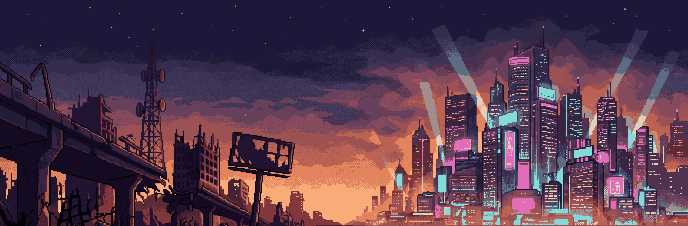
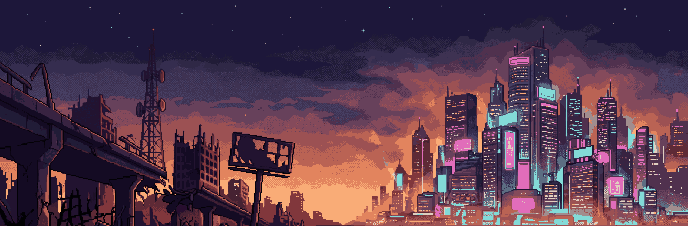
Startseite: Suchscheinwerfer aus der Skyline animiert, hinter den Hochhäusern (#117)
Claude-Session: https://claude.ai/code/session_01DEYRZwNFjFGt4uh4nVWp1C

diff --git a/game/splash/splash.js b/game/splash/splash.js
@@ -263,6 +263,33 @@ export async function startSplash(canvas) {
       const ox = -look.x * par * W * depth + shiftH, oy = -look.y * par * 0.4 * H * depth;
       ctx.drawImage(img, Math.round((W - bw * sc) / 2 + ox), Math.round(horizon - bh * sc + oy + par * 0.4 * H * depth), Math.round(bw * sc), Math.round(bh * sc));
     });
+    // #117 (Daniel: „die Lichtkegel im Hauptmenü auch animieren“): searchlights from the skyline (Startseite › Suchscheinwerfer, in
+    // pixels of the picture), sweeping the sky around their angle, now and then darting somewhere else; they move with the picture
+    if (layers[0] && S.beams?.length) {
+      const ox = shiftH, x0 = (W - bw * sc) / 2 + ox, y0 = horizon - bh * sc;
+      ctx.save();
+      if (S.skyline?.length > 2) {   // the beams stay behind the buildings: only the sky above the skyline (Startseite › Skyline)
+        ctx.beginPath(); ctx.moveTo(x0, y0 - H);
+        for (const q of S.skyline) if (q.at) ctx.lineTo(x0 + q.at[0] * sc, y0 + q.at[1] * sc);
+        ctx.lineTo(x0 + bw * sc, y0 - H); ctx.closePath(); ctx.clip();
+      }
+      ctx.globalCompositeOperation = 'lighter';
+      S.beams.forEach((b, i) => {
+        if (!b.at) return;
+        const bx = x0 + b.at[0] * sc, by = y0 + b.at[1] * sc, ph = i * 2.3 + 0.4, sw = (b.swing ?? 22) * Math.PI / 180;
+        const step = Math.floor(t / 2.8 + ph), k = Math.min(1, (t / 2.8 + ph - step) * 6), sm = k * k * (3 - 2 * k), dart = n => (Math.sin(n * 91.7 + i * 13.1) * 43758.5453 % 1) * 0.8;
+        const ang = (-90 + (b.angle ?? 0)) * Math.PI / 180 + sw * Math.sin(t * (0.35 + i * 0.07) + ph) + (dart(step - 1) + (dart(step) - dart(step - 1)) * sm) * sw * 0.6;
+        const len = (b.length ?? 140) * sc, a = (b.alpha ?? 30) / 100;
+        for (const [spread, al] of [[0.07, 0.45], [0.035, 0.7], [0.014, 1]]) {
+          const g = ctx.createLinearGradient(bx, by, bx + Math.cos(ang) * len, by + Math.sin(ang) * len);
+          g.addColorStop(0, `rgba(226,222,255,${a * al})`); g.addColorStop(0.6, `rgba(210,206,250,${a * al * 0.45})`); g.addColorStop(1, 'rgba(200,200,255,0)');
+          ctx.fillStyle = g; ctx.beginPath(); ctx.moveTo(bx, by);
+          ctx.lineTo(bx + Math.cos(ang - spread) * len, by + Math.sin(ang - spread) * len); ctx.lineTo(bx + Math.cos(ang + spread) * len, by + Math.sin(ang + spread) * len);
+          ctx.closePath(); ctx.fill();
+        }
+      });
+      ctx.restore();
+    }
     front.forEach(({ f, img }, i) => {
       const k = sc * (f.scale ?? 100) / 100, w = Math.round(img.width * k), h = Math.round(img.height * k), d = 1 + (i + 1) * 0.6;
       const ox = -look.x * par * W * d + shiftH * (1 + (i + 1) * 0.3), oy = -look.y * par * 0.4 * H * d;

diff --git a/engine/schema.js b/engine/schema.js
@@ -312,7 +312,9 @@ export const AREAS = {
     hint: 'Die Startseite (online unter /): Hintergrund aus Ebenen, Leyla rennt endlos auf uns zu, der Boden fliegt unter ihr durch. Pixel-Art wird scharf skaliert.',
     sections: [
       { title: 'Hintergrund', fields: [refs('background', 'Ebenen', 'assets', { hint: 'Von hinten nach vorn. Alle gleich groß; mit Wetter darf auch die erste transparent sein' }),
-        table('front', 'Ebenen davor', [ref('look', 'Bild', 'assets'), num('scale', 'Maßstab', { unit: '% der Hintergrund-Pixel', min: 10 }), num('bottom', 'Unterkante', { unit: 'Bildpixel unter dem Horizont' }), num('alpha', 'Deckkraft', { unit: '%', min: 0, max: 100 })], { hint: '#115: gemalte Parallax-Ebenen (Welt › Parallax-Sets) vor dem Bild, nahtlos gespiegelt, folgen der Maus stärker' }), ref('weather', 'Wetter', 'weather', { hint: 'Himmel hinter den Ebenen, Regen davor' }),
+        table('front', 'Ebenen davor', [ref('look', 'Bild', 'assets'), num('scale', 'Maßstab', { unit: '% der Hintergrund-Pixel', min: 10 }), num('bottom', 'Unterkante', { unit: 'Bildpixel unter dem Horizont' }), num('alpha', 'Deckkraft', { unit: '%', min: 0, max: 100 })], { hint: '#115: gemalte Parallax-Ebenen (Welt › Parallax-Sets) vor dem Bild, nahtlos gespiegelt, folgen der Maus stärker' }),
+        table('beams', 'Suchscheinwerfer', [point('at', 'Ansatz', { unit: 'Bildpixel' }), num('angle', 'Richtung', { unit: '° von senkrecht' }), num('swing', 'Schwenk', { unit: '°', min: 0 }), num('length', 'Länge', { unit: 'Bildpixel', min: 10 }), num('alpha', 'Helligkeit', { unit: '%', min: 0, max: 100 })], { hint: '#117: Lichtkegel aus der Skyline, schwenken über den Himmel und rucken ab und zu' }),
+        table('skyline', 'Skyline', [point('at', 'Punkt', { unit: 'Bildpixel' })], { hint: '#117: Linienzug über den Dächern von links nach rechts; die Suchscheinwerfer leuchten nur darüber (hinter den Gebäuden)' }), ref('weather', 'Wetter', 'weather', { hint: 'Himmel hinter den Ebenen, Regen davor' }),
         num('horizon', 'Horizont', { unit: '% der Höhe', min: 30, max: 100, hint: 'Hier endet der Hintergrund unten; darunter zeichnet die Startseite den Boden, auf dem Leyla rennt' }),
         num('parallax', 'Tiefe', { unit: '%', min: 0, max: 10, step: 0.5, hint: 'So weit verschieben sich die Ebenen mit Maus bzw. Neigen gegeneinander (vorderste am meisten). 0 = starr' })] },
       { title: 'Leyla', fields: [table('runners', 'Animationen', [ref('look', 'Animation', 'assets'), num('weight', 'Gewicht', { min: 0 }), num('speed', 'Bodentempo ×', { min: 0 })],

diff --git a/docs/features/splash.md b/docs/features/splash.md
@@ -9,3 +9,4 @@ Die Startseite: Szene mit Leyla, Horizont-Dunst, AvA, Highway zur Megacity mit T
 - **Highway zur Megacity** (Daniel, 10.11.2026: „Hintergrund, der perspektivisch besser zu Leylas Laufen passt, Ruinen und auf der Gegenseite eine beleuchtete Cyberpunk-Megacity, spannende Endlos-Textur für den Boden, passend zum Pixelstil von Leyla und Drohne“): Bild `highway` (PixelLab mit Leyla als Stilvorlage, Fluchtpunkt in der Mitte, am Horizont abgeschnitten), Horizont 60 %. **Textur-Boden** (Startseite › Boden › Textur, `drawGround` in `splash.js`, „Mode 7“): jede Bildpixel-Zeile unter dem Horizont ist eine Tiefe, die Draufsicht `highway_ground` liegt „Breite der Textur“ (1,7 m) breit flach auf dem Boden und rollt mit dem Tempo weg, links/rechts wiederholt sich der Rand (16 Spalten Sand), zum Horizont Dunst ab 8 m; Steinchen 0. Ohne Textur wie vorher. Der alte Hintergrund `ruins_relay` bleibt als Asset.
 - **Überraschung** (Ava, 11.11.2026, Daniel: „bau eine visuelle Kleinigkeit in den Homescreen ein“): alle 22–52 s rollt ein **Steppenläufer** (Pixel aus Code, hüpft, dreht sich) hinter Leyla quer über den Highway und wird vom Boden in die Ferne getragen; alle 18–43 s zieht eine **Sternschnuppe** über den Abendhimmel (Klick in den Himmel ruft eine). `splash.surprise()`, `splash.tumble()`, `splash.star()`; geprüft in `splash_test`.
 - Online kommen die Daten live über `/api/files` (wie das Spiel). `index.html?preview` zeigt nur die Szene (Vorschau in der Werkstatt unter „Startseite“ mit „Speichern und neu laden“). `window.splash` für Tests, `node tools/splash_test.mjs [--shots]` (Desktop, iPad hochkant, Handy).
+- **Suchscheinwerfer** (#117, Daniel 20.11.2026: „Kannst du die Lichtkegel im Hauptmenü auch animieren?“): die vier gemalten Kegel sind aus `highway.png` übermalt (PixelLab Inpaint, Original `highway_mit_kegeln.png`); Startseite › **Suchscheinwerfer** (Ansatz in Bildpixeln, Richtung, Schwenk, Länge, Helligkeit) zeichnet sie aus Code: drei weiche Kegel je Licht, schwenken um ihre Richtung, rucken ab und zu, folgen der Parallaxe; Startseite › **Skyline** (Linienzug über den Dächern) schneidet sie ab, damit sie hinter den Hochhäusern bleiben.

diff --git a/docs/assets.md b/docs/assets.md
@@ -66,6 +66,7 @@ Alle Assets entstehen im Projekt selbst, mit KI oder Code. Nichts Externes. Jede
 | `assets/sound/campfire.m4a`, `.ogg` | Lagerfeuer knistert, 29 s Schleife (`sound_campfire`) | von Daniel (WAV), mit ffmpeg umgewandelt | 07.11.2026 |
 | `assets/sound/wind.m4a`, `wind2`, `wind3` (+ `.ogg`) | Wind als leise Schleife und zwei Böen (`sound_wind`, `sound_wind2`, `sound_wind3`) | von Daniel | 07.11.2026 |
 | `assets/camp/egg/bunker.png` (+ `bunker_alt_1..3.png`) | Easter Egg unter dem Camp (#117): vergessener Bunker mit Skelett am Monitor | KI (PixelLab, Create Image Pro, AAP-64, 10 Generierungen, 4 Kandidaten) | 20.11.2026 |
+| `assets/backgrounds/highway.png` (Original `highway_mit_kegeln.png`) | Startseite ohne gemalte Suchscheinwerfer, die Kegel kommen animiert aus Code (#117) | KI (PixelLab Inpaint auf dem Ausschnitt 380–688 px, 15 Generierungen) | 20.11.2026 |
 | `assets/music/intro_theme.m4a`, `.ogg` | **Intro-Musik** (#117), 120 s, 138 BPM (`intro_theme`) | KI-Musik von Daniel (eigenes lokales Modell auf eigener GPU, frei nutzbar), nach .m4a/.ogg gewandelt (ffmpeg) | 20.11.2026 |
 | `assets/music/drive_a.m4a`, `drive_b.m4a`, `.ogg` | **Fahrt-Loops** (#117): die schnellen Passagen der Intro-Musik, 10 Takte ab 61,3 s und 12 Takte ab 85,7 s, nahtlos | aus `intro_theme` geschnitten (Code, ffmpeg, Takt aus 138 BPM) | 20.11.2026 |
 | `assets/intro/panel_6.png` (Original `raw/panel_6_mit_kegeln.png`) | Panel 6 ohne gemalte Lichtkegel, die Kegel kommen jetzt animiert aus Code | KI (PixelLab Inpaint, 2 Durchgänge, 50 Generierungen) | 20.11.2026 |
